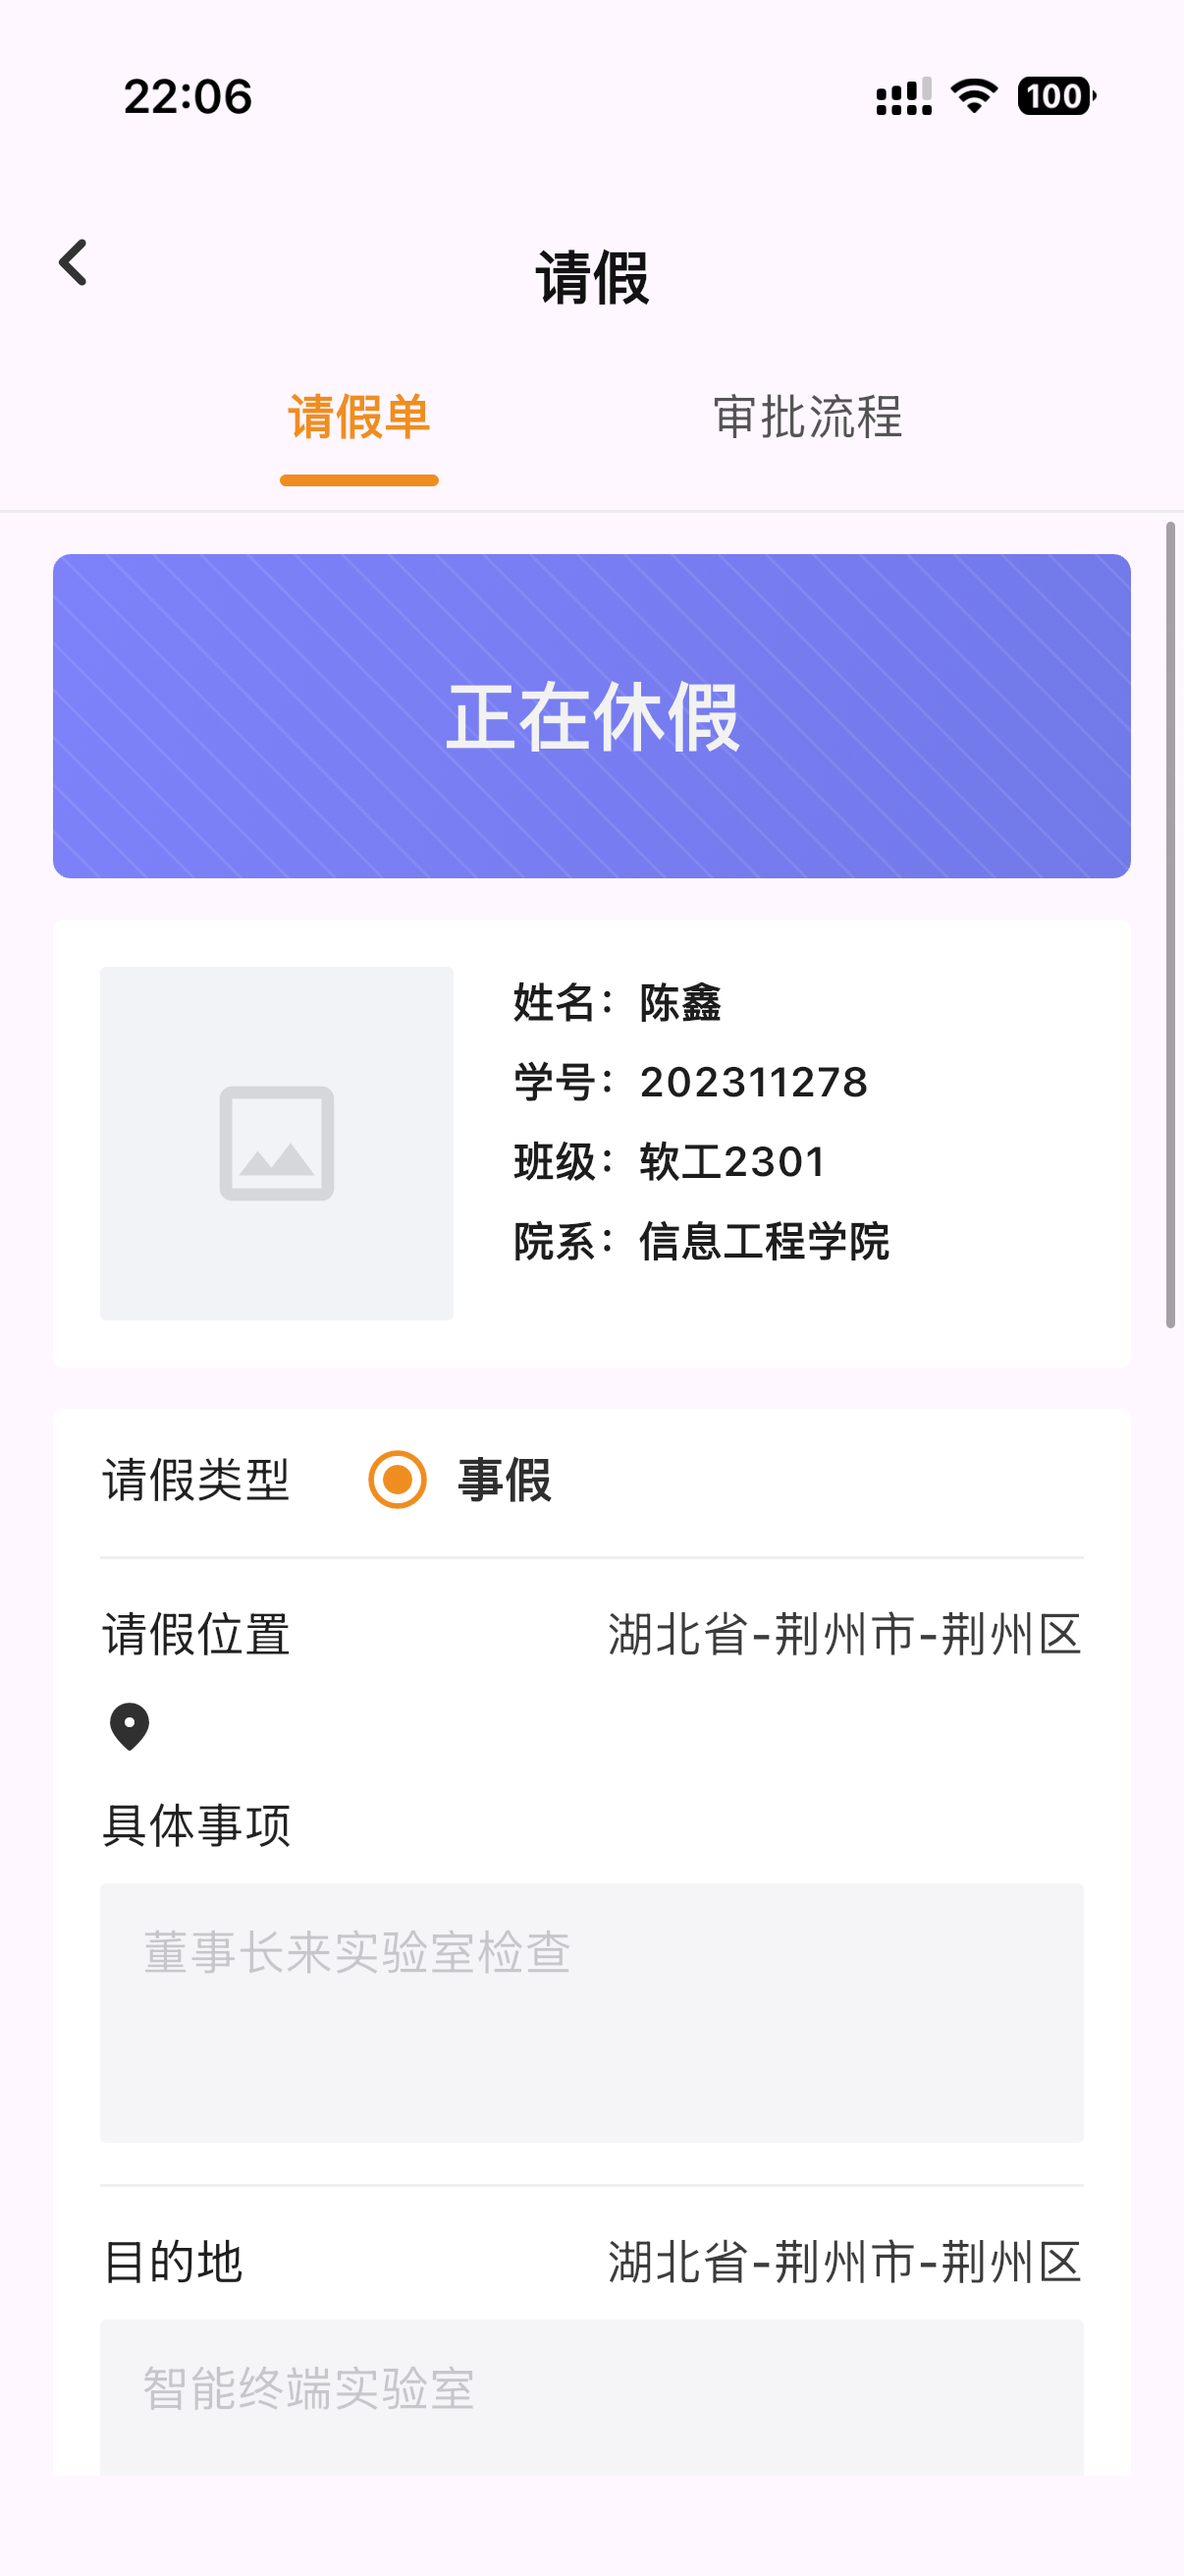
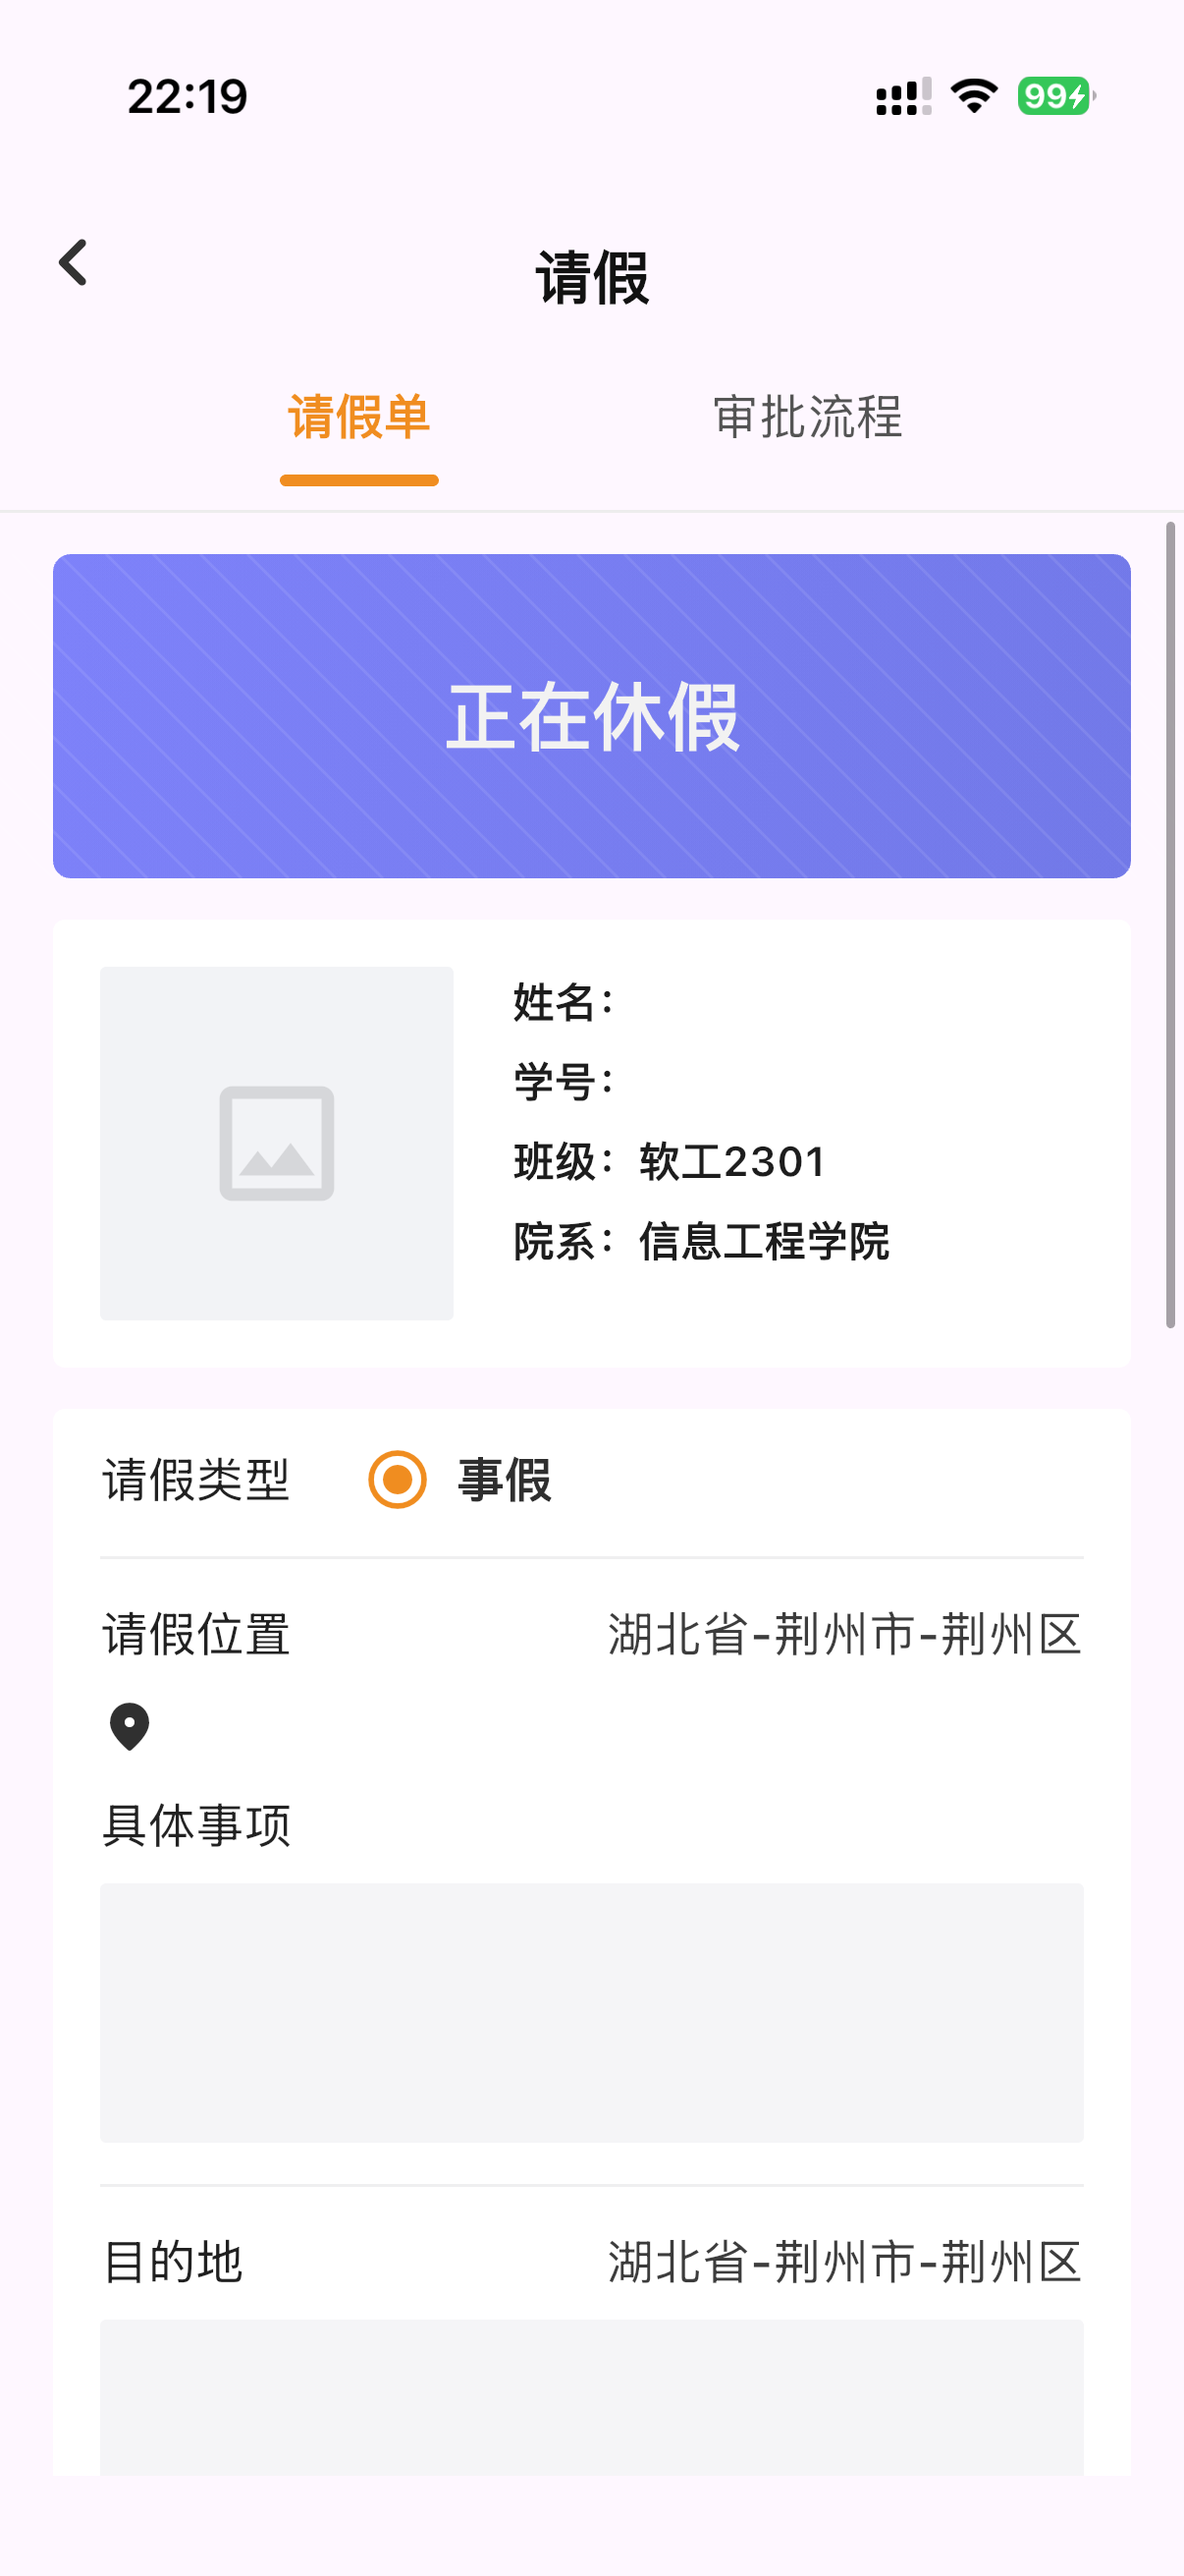
commit

diff --git a/lib/main.dart b/lib/main.dart
@@ -29,15 +29,15 @@ class _LeavePageState extends State<LeavePage> {
 
   final Map<String, String> _values = <String, String>{
     'leaveStatus': '正在休假',
-    'name': '陈鑫',
-    'studentId': '202311278',
+    'name': '',
+    'studentId': '',
     'className': '软工2301',
     'department': '信息工程学院',
     'leaveType': '事假',
     'leaveLocation': '湖北省-荆州市-荆州区',
-    'leaveReason': '董事长来实验室检查',
+    'leaveReason': '',
     'destinationLocation': '湖北省-荆州市-荆州区',
-    'destinationDetail': '智能终端实验室',
+    'destinationDetail': '',
     'travelMode': '步行',
     'exitCampus': '荆州学院',
     'exitGate': '东大门',
@@ -45,11 +45,11 @@ class _LeavePageState extends State<LeavePage> {
     'entryGate': '东大门',
     'leaveStart': '2026-3-15 08:00',
     'leaveEnd': '2026-3-15 17:35',
-    'approver': '牛家鑫',
-    'flowApplicant': '陈鑫',
+    'approver': '',
+    'flowApplicant': '',
     'flowSubmitAction': '提交申请',
     'flowSubmitTime': '2026-3-15 12:29:15',
-    'flowReviewer': '牛家鑫',
+    'flowReviewer': '',
     'flowResult': '同意并终止',
     'flowComment': '无',
     'flowReviewTime': '2026-3-15 19:29:15',
